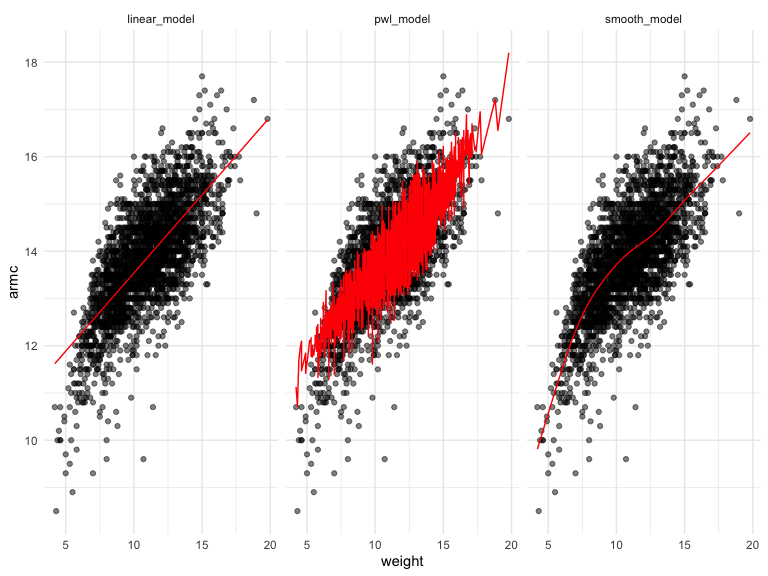
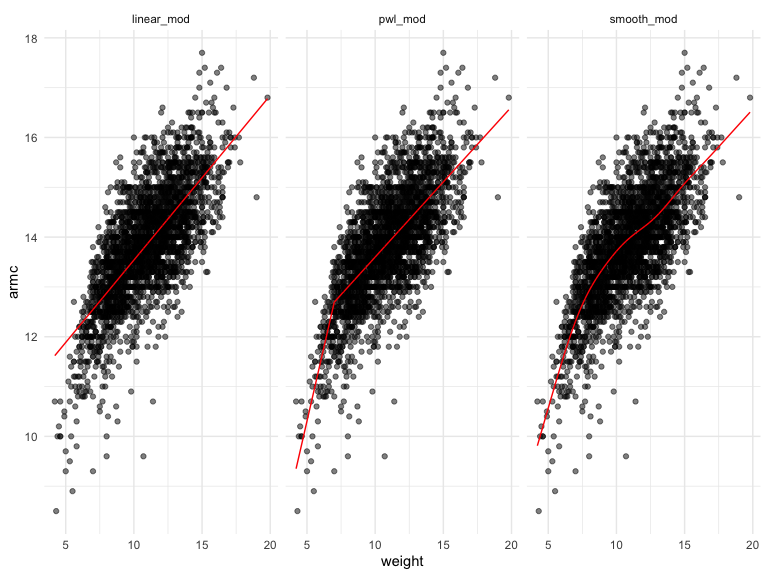
model cross validation for child growth example

diff --git a/cross_validation.md b/cross_validation.md
@@ -50,16 +50,16 @@ train_df |>
 Fit the 3 models
 
 ``` r
-linear_model = lm(logratio ~ range, data = train_df)
-smooth_model = gam(logratio ~ s(range), data = train_df)
-wiggly_model = gam(logratio ~ s(range, k = 30), data = train_df, sp = 10e-6)
+linear_mod = lm(logratio ~ range, data = train_df)
+smooth_mod = gam(logratio ~ s(range), data = train_df)
+wiggly_mod = gam(logratio ~ s(range, k = 30), data = train_df, sp = 10e-6)
 ```
 
 Look at the fits
 
 ``` r
 train_df |> 
-  add_predictions(linear_model) |> 
+  add_predictions(linear_mod) |> 
   ggplot(aes(x = range, y = logratio)) + 
   geom_point()+
   geom_line(aes(y = pred), color = "red") +
@@ -71,7 +71,7 @@ train_df |>
 
 ``` r
 train_df |> 
-  add_predictions(wiggly_model) |> 
+  add_predictions(wiggly_mod) |> 
   ggplot(aes(x = range, y = logratio)) + 
   geom_point()+
   geom_line(aes(y = pred), color = "red") +
@@ -83,7 +83,7 @@ train_df |>
 
 ``` r
 train_df |> 
-  add_predictions(smooth_model) |> 
+  add_predictions(smooth_mod) |> 
   ggplot(aes(x = range, y = logratio)) + 
   geom_point()+
   geom_line(aes(y = pred), color = "red") +
@@ -96,19 +96,19 @@ train_df |>
 Compare them numerically using RMSE
 
 ``` r
-rmse(linear_model, test_df)
+rmse(linear_mod, test_df)
 ```
 
     ## [1] 0.127317
 
 ``` r
-rmse(smooth_model, test_df)
+rmse(smooth_mod, test_df)
 ```
 
     ## [1] 0.08302008
 
 ``` r
-rmse(wiggly_model, test_df)
+rmse(wiggly_mod, test_df)
 ```
 
     ## [1] 0.08848557
@@ -119,7 +119,10 @@ consistent if we use different training and testing data
 ## Repeat the train/test split
 
 ``` r
-cv_df <- crossv_mc(lidar_df, 100)
+cv_df <- crossv_mc(lidar_df, 100) |> 
+  mutate(
+    train = map(train, as_tibble),
+    test = map(test, as_tibble))
 
 cv_df |>  
   pull(train) |>
@@ -179,7 +182,7 @@ Import Nepalese children dataset
 ``` r
 child_df <- read_csv("data/nepalese_children.csv") |> 
   mutate(
-    weight_ch7 = (weight > 7) * (weight - 7)
+    weight_cp7 = (weight > 7) * (weight - 7)
   )
 ```
 
@@ -203,14 +206,14 @@ ggplot(child_df, aes(x = weight, y = armc)) +
 Fit some models
 
 ``` r
-linear_model = lm(armc ~ weight, data = child_df)
-pwl_model = lm(armc ~ weight + height, data = child_df)
-smooth_model = gam(armc ~ s(weight), data = child_df)
+linear_mod = lm(armc ~ weight, data = child_df)
+pwl_mod = lm(armc ~ weight + weight_cp7, data = child_df)
+smooth_mod = gam(armc ~ s(weight), data = child_df)
 ```
 
 ``` r
 child_df |> 
-  gather_predictions(linear_model, pwl_model, smooth_model) |> 
+  gather_predictions(linear_mod, pwl_mod, smooth_mod) |> 
   mutate(model = fct_inorder(model)) |> 
   ggplot(aes(x = weight, y = armc)) + 
   geom_point(alpha = .5) +
@@ -219,3 +222,49 @@ child_df |>
 ```
 
 <img src="cross_validation_files/figure-gfm/unnamed-chunk-16-1.png" width="85%" style="display: block; margin: auto;" />
+
+CV to select models
+
+``` r
+cv_df <- crossv_mc(child_df, 100) |> 
+  mutate(
+    train = map(train, as_tibble),
+    test = map(test, as_tibble))
+  
+
+cv_res_df <- cv_df |> 
+  mutate(
+    linear_mod = map(train, \(x) lm(armc ~ weight, data = x)), 
+    smooth_mod = map(train, \(x) gam(armc ~ s(weight), data = x)), 
+    pwl_mod = map(train, \(x) lm(armc ~ weight + weight_cp7, data = x))
+  ) |> 
+  mutate(
+    rmse_linear = map2_dbl(linear_mod, test, rmse), 
+    rmse_smooth = map2_dbl(smooth_mod, test, rmse), 
+    rmse_pwl = map2_dbl(pwl_mod, test, rmse)
+  )
+```
+
+``` r
+cv_res_df |> 
+  select(starts_with("rmse"))  |> 
+  pivot_longer(
+    everything(),
+    names_to = "model_type", 
+    values_to = "rmse"
+  ) |> 
+  ggplot(aes(x = model_type, y = rmse)) +
+  geom_violin()
+```
+
+<img src="cross_validation_files/figure-gfm/unnamed-chunk-18-1.png" width="85%" style="display: block; margin: auto;" />
+Notes: Based on these results, there’s clearly some improvement in
+predictive accuracy gained by allowing non-linearity – whether this is
+sufficient to justify a more complex model isn’t obvious, though. Among
+the non-linear models, the smooth fit from gam might be a bit better
+than the piecewise linear model. Which candidate model is best, though,
+depends a bit on the need to balance complexity with goodness of fit and
+interpretability. In the end, I’d probably go with the piecewise linear
+model – the non-linearity is clear enough that it should be accounted
+for, and the differences between the piecewise and gam fits are small
+enough that the easy interpretation of the piecewise model “wins”.
